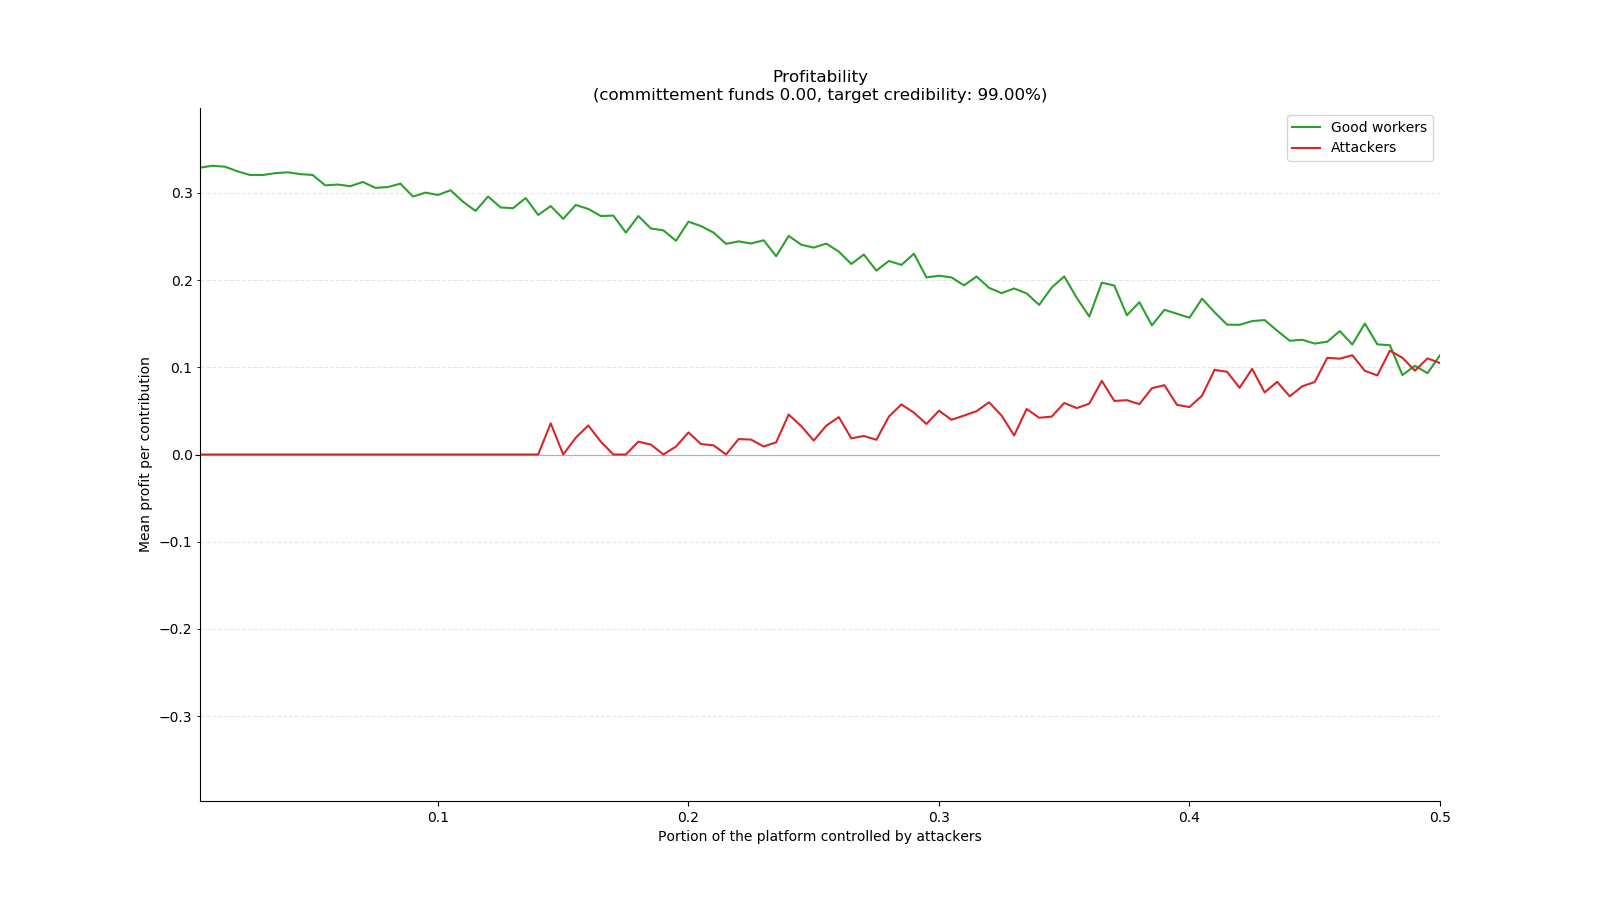
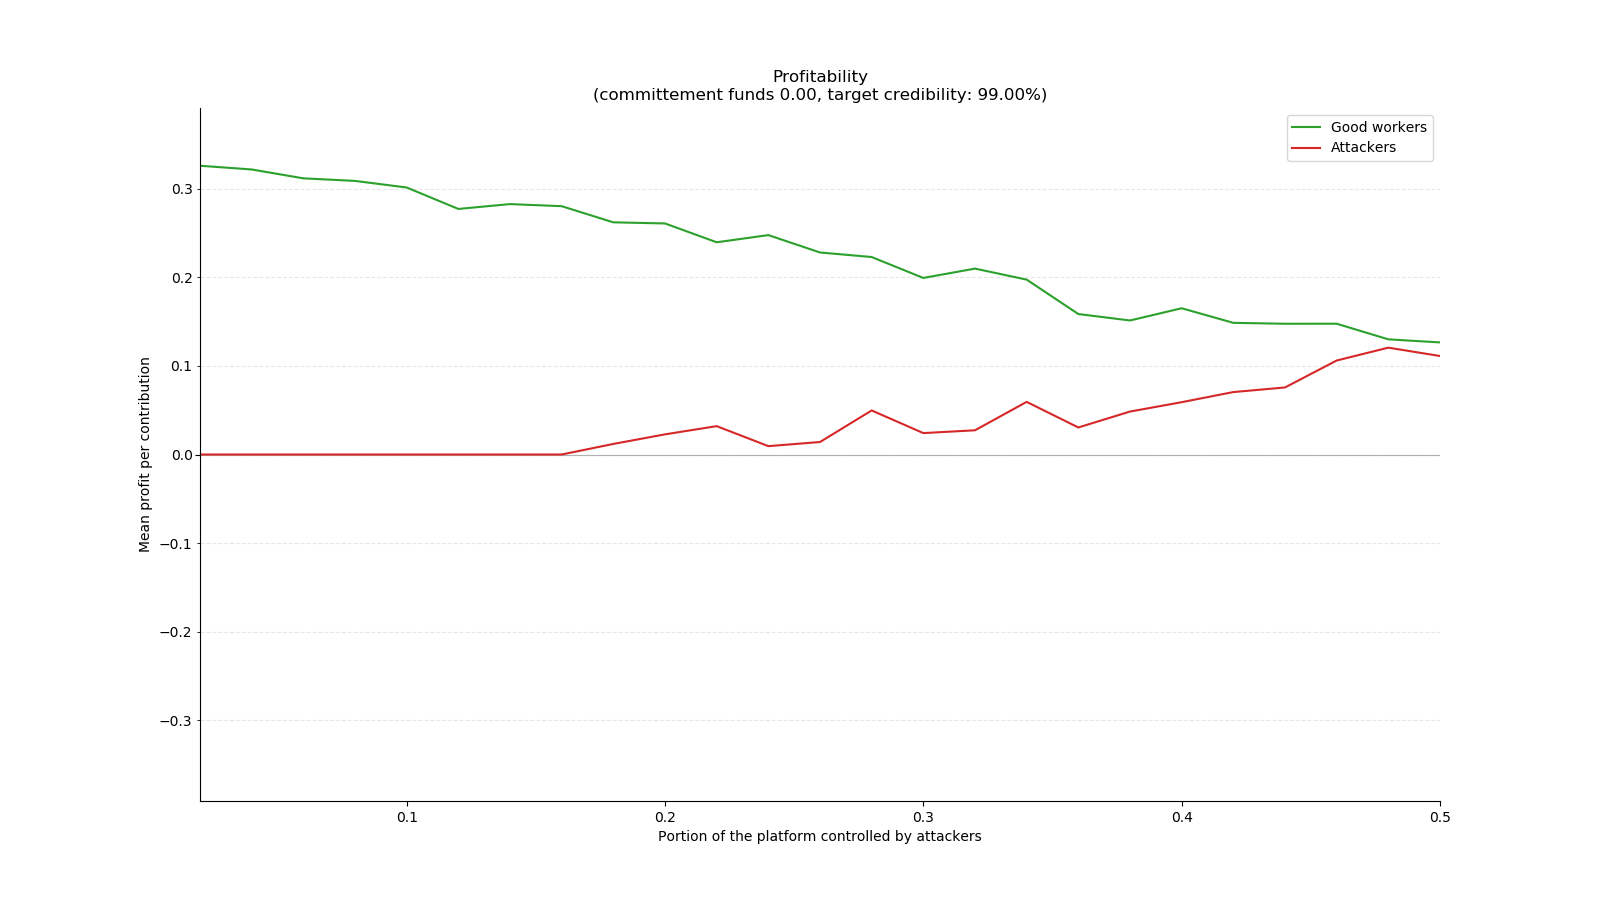
up

diff --git a/simulator/stats-profitability-plot.py b/simulator/stats-profitability-plot.py
@@ -1,0 +1,80 @@
+import numpy as np
+from matplotlib import pyplot as plt
+from matplotlib import ticker
+
+# =============================================================================
+
+colors = [ c['color'] for c in plt.rcParams['axes.prop_cycle'] ]
+
+def initPlot():
+	plt.figure(figsize=(16,9))
+	plt.axes().spines['right'].set_visible(False)
+	plt.axes().spines['top'  ].set_visible(False)
+
+def endPlot(fname=None):
+	plt.legend()
+	if fname == None:
+		plt.show()
+	else:
+		plt.savefig(fname)
+
+# =============================================================================
+
+if __name__ == '__main__':
+
+	targets = [0.99, 0.999, 0.9999]
+	funds   = [0.0, 0.1, 0.2, 0.5, 1.0, 2.0, 5.0, 10.0]
+
+	# ---------------------------------------------------------------------------
+
+	for target in targets:
+		data = np.load("data/effectiveness.trg-%f.npy" % (target))
+		initPlot()
+		plt.plot(data[:,0], data[:,1], color=colors[0])
+		plt.title("Attack effectiveness\n(target credibility: %4.2f%%)" % (target*100))
+		plt.xlabel("Portion of the platform controlled by attackers")
+		plt.ylabel("Attack success rate")
+		plt.xlim(left=data[:,0].min(), right=data[:,0].max())
+		plt.ylim(bottom=0)
+		plt.grid(axis='y', linestyle='--')
+		endPlot("plots/effectiveness.trg-%f.png" % (target))
+		# endPlot()
+
+	# ---------------------------------------------------------------------------
+
+	for target in targets:
+		data = np.load("data/consensus.trg-%f.npy" % (target))
+		initPlot()
+		plt.plot(data[:,0], data[:,1], color=colors[1])
+		plt.title("Number of contribution to consensus\n(target credibility: %4.2f%%)" % (target*100))
+		plt.xlabel("Portion of the platform controlled by attackers")
+		plt.ylabel("Mean number of votes")
+		plt.xlim(left=data[:,0].min(), right=data[:,0].max())
+		plt.ylim(bottom=0)
+		plt.grid(axis='y', which='major', linestyle='--')
+		plt.grid(axis='y', which='minor', linestyle='--', alpha=0.3)
+		endPlot("plots/consensus.trg-%f.png" % (target))
+		# endPlot()
+
+	# ---------------------------------------------------------------------------
+
+	for target in targets:
+		for f in funds:
+			data = np.load("data/profitability.fund-%.2f.trg-%f.npy" % (f, target))
+			initPlot()
+			plt.plot(data[:,0], data[:,1], label="Good workers", color=colors[2])
+			plt.plot(data[:,0], data[:,2], label="Attackers",    color=colors[3])
+			plt.title("Profitability\n(committement funds %4.2f, target credibility: %4.2f%%)" % (f, target*100))
+			plt.xlabel("Portion of the platform controlled by attackers")
+			plt.ylabel("Mean profit per contribution")
+			plt.xlim(left=data[:,0].min(), right=data[:,0].max())
+			sup = np.absolute(data[:,1:]).max()
+			plt.ylim(bottom=-1.2*sup, top=1.2*sup)
+			plt.grid(axis='y', which='major', linestyle='-')
+			plt.grid(axis='y', which='minor', linestyle='--', alpha=0.3)
+			plt.axes().yaxis.set_minor_locator  (plt.axes().yaxis.get_major_locator())
+			plt.axes().yaxis.set_minor_formatter(plt.axes().yaxis.get_major_formatter())
+			plt.axes().yaxis.set_major_locator(ticker.MultipleLocator(10000000))
+			plt.axes().yaxis.set_major_formatter(ticker.FormatStrFormatter(''))
+			endPlot("plots/profitability.fund-%.2f.trg-%f.png" % (f, target))
+			# endPlot()

diff --git a/simulator/stats-profitability-gen.py b/simulator/stats-profitability-gen.py
@@ -1,0 +1,79 @@
+#!/usr/bin/python3
+
+import numpy
+
+from argparse   import Namespace
+from statistics import mean
+
+from include  import consensus
+from include  import scenari
+from include  import simulation
+
+###############################################################################
+settings           = Namespace()
+settings.C_target  = None          # set by experience
+settings.C_cost    = 1
+settings.C_CR      = lambda x: 0.9
+settings.V_funds   = None          # set by experience
+###############################################################################
+
+if __name__ == '__main__':
+
+	targets = [0.99, 0.999, 0.9999]
+	funds   = [0.0, 0.1, 0.2, 0.5, 1.0, 2.0, 5.0, 10.0]
+	runs    = 100000
+	sample  = 64
+
+	# ---------------------------------------------------------------------------
+
+	x        = numpy.linspace(0.5, 0.0, sample, endpoint=False)[::-1]
+	x_smooth = numpy.linspace(x.min(), x.max(), 300)
+
+	y_ratio  = numpy.empty(sample)
+	y_count  = numpy.empty((sample, 3))
+	y_profit = { f: numpy.empty((sample,2)) for f in funds }
+
+	# ---------------------------------------------------------------------------
+
+	for target in targets:
+		settings.C_target = target
+
+		for i in range(sample):
+			cns = [ simulation.SingleRun(scenario=scenari.CoordinatedAttackers(x[i]), settings=settings).consensus for _ in range(runs) ]
+
+			y_ratio[i]   = sum (1 for cn in cns if cn.result != 0) / runs
+			y_count[i,0] = mean(len(cn.contribs) for cn in cns)
+			y_count[i,1] = min (len(cn.contribs) for cn in cns)
+			y_count[i,2] = max (len(cn.contribs) for cn in cns)
+
+			for f in funds:
+				Wc = 0
+				Wt = 0
+				Ac = 0
+				At = 0
+				for cn in cns:
+					for vote in cn.contribs:
+						vote.funds = f
+					txs = consensus.listTXS(cn)
+					Wc += sum(1  for (t,_), tx in txs.items() if t == '-'       )
+					Wt += sum(tx for (t,_), tx in txs.items() if t == '-'       )
+					Ac += sum(1  for (t,_), tx in txs.items() if t == 'attacker')
+					At += sum(tx for (t,_), tx in txs.items() if t == 'attacker')
+				y_profit[f][i,0] = Wt/Wc
+				y_profit[f][i,1] = At/Ac
+
+		arr_ratio      = numpy.empty((sample,2))
+		arr_ratio[:,0] = x
+		arr_ratio[:,1] = y_ratio
+		numpy.save("data/effectiveness.trg-%f" % (target), arr_ratio)
+
+		arr_contrib      = numpy.empty((sample,2))
+		arr_contrib[:,0] = x
+		arr_contrib[:,1] = y_count[:,0]
+		numpy.save("data/consensus.trg-%f" % (target), arr_contrib)
+
+		for f in funds:
+			arr_profit       = numpy.empty((sample,3))
+			arr_profit[:,0]  = x
+			arr_profit[:,1:] = y_profit[f]
+			numpy.save("data/profitability.fund-%.2f.trg-%f" % (f, target), arr_profit)
